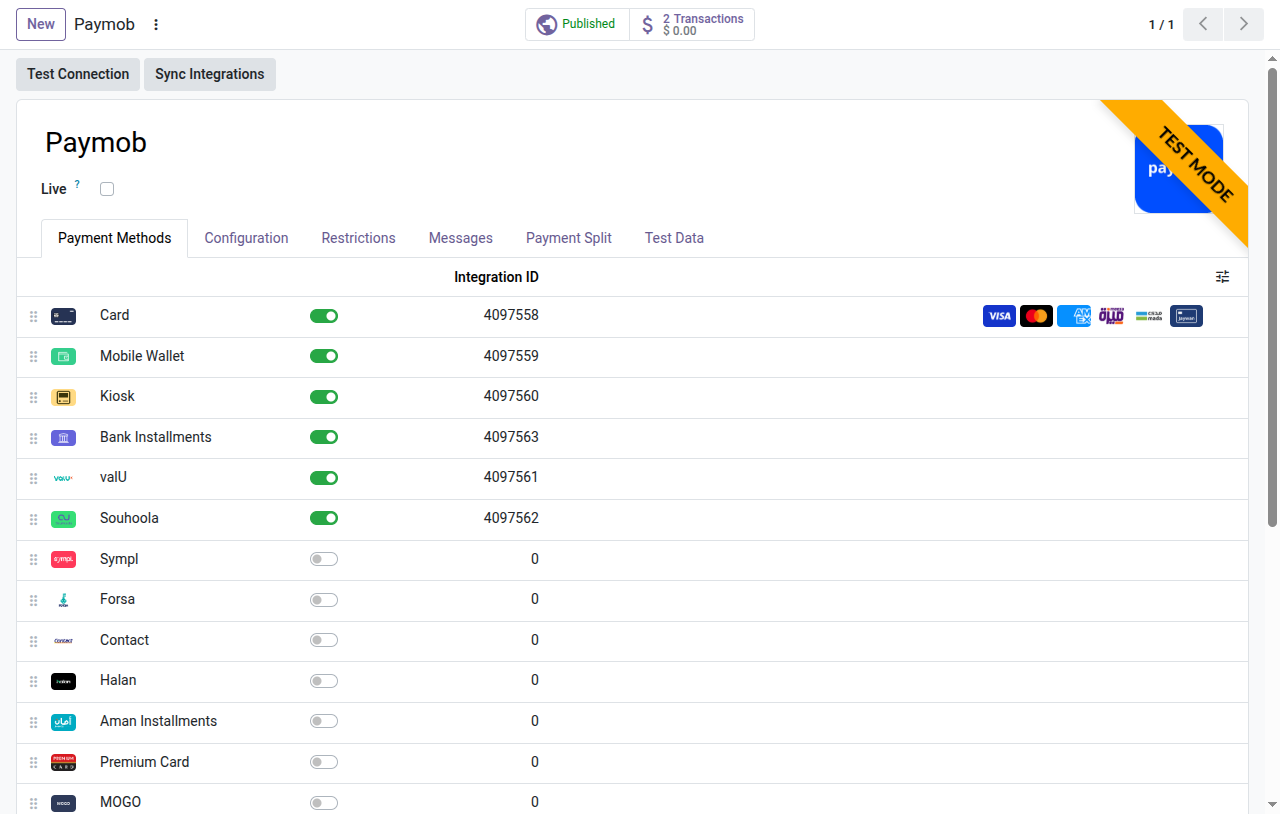
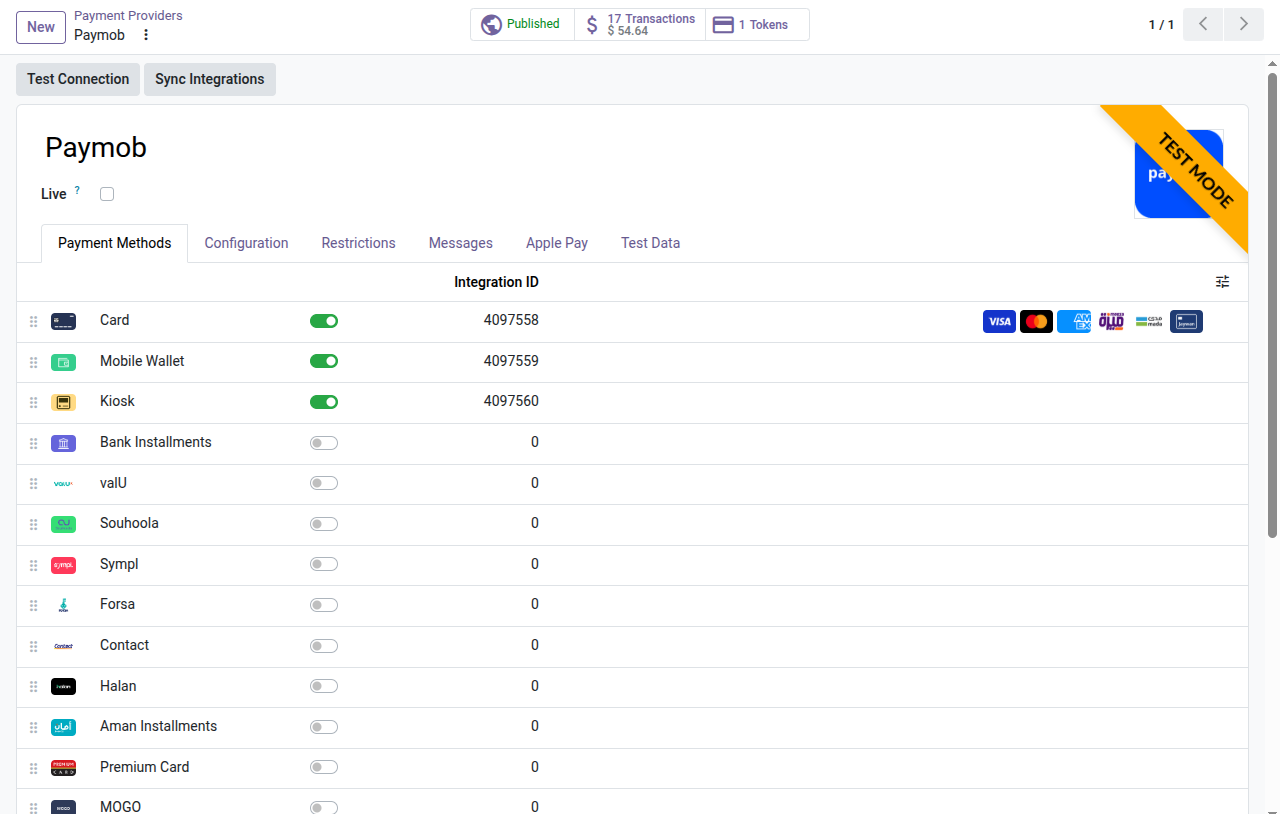
[IMP] payment_paymob_cf: store page with every feature and screen
- Store page: new screens (Paymob Checkout in a pop-up, the embedded card
  form, a saved card at checkout, My Payment Methods, the Apple Pay tab, a
  transaction's Paymob tab) and the Payment Methods and Test Data tabs
  retaken; three more feature cards (Apple Pay, checked on Paymob's
  platform, easy to test); the pop-up that follows the payment, saved cards
  fetched from Paymob, testing on a local computer, Apple Pay settings and
  questions; version 20.0.1.1.0 and what's new.
- Banner with Apple Pay; manifest summary and description with Apple Pay.
- Test Data tab and admin guide: what a test kiosk payment does.
- Guides show the new screens; Arabic updated.

diff --git a/payment_paymob_cf/static/description/index.html b/payment_paymob_cf/static/description/index.html
@@ -17,6 +17,8 @@
                 <span class="border rounded" style="display: inline-block; font-size: 14px; padding: 6px 14px; margin: 4px; color: #1F2937;">English &amp; Arabic</span>
                 <span class="border rounded" style="display: inline-block; font-size: 14px; padding: 6px 14px; margin: 4px; color: #1F2937;">No PCI-DSS scope</span>
                 <span class="border rounded" style="display: inline-block; font-size: 14px; padding: 6px 14px; margin: 4px; color: #1F2937;">Saved cards, capture &amp; split</span>
+                <span class="border rounded" style="display: inline-block; font-size: 14px; padding: 6px 14px; margin: 4px; color: #1F2937;">Apple Pay</span>
+                <span class="border rounded" style="display: inline-block; font-size: 14px; padding: 6px 14px; margin: 4px; color: #1F2937;">Checked on Paymob's platform</span>
             </p>
         </div>
     </div>
@@ -138,7 +140,8 @@
                 <h4 style="font-size: 18px; font-weight: 700; color: #1F2937; margin-bottom: 8px;">Pay without leaving your site</h4>
                 <p style="font-size: 15px; color: #374151; margin-bottom: 0;">
                     Paymob Checkout opens in a pop-up, a side panel or a full page. With the embedded integration, the
-                    card form opens right on your payment page.
+                    card form opens right on your payment page. The pop-up follows the payment and takes the customer to
+                    the confirmation page as soon as it is paid.
                 </p>
             </div>
         </div>
@@ -196,6 +199,33 @@
                 </p>
             </div>
         </div>
+        <div class="col-md-6 col-lg-4" style="margin-bottom: 24px;">
+            <div class="border rounded h-100" style="padding: 22px; border-color: #004EFF !important; border-width: 2px !important;">
+                <h4 style="font-size: 18px; font-weight: 700; color: #1F2937; margin-bottom: 8px;">Apple Pay in a few clicks</h4>
+                <p style="font-size: 15px; color: #374151; margin-bottom: 0;">
+                    Apple Pay for customers on iPhone, iPad and Mac, hidden for the others. The Apple Pay tab guides you
+                    step by step, and Activate Apple Pay finds your Apple Pay integration and turns it on.
+                </p>
+            </div>
+        </div>
+        <div class="col-md-6 col-lg-4" style="margin-bottom: 24px;">
+            <div class="border rounded h-100" style="padding: 22px; border-color: #0B1F4D !important; border-width: 2px !important;">
+                <h4 style="font-size: 18px; font-weight: 700; color: #1F2937; margin-bottom: 8px;">Checked on Paymob's platform</h4>
+                <p style="font-size: 15px; color: #374151; margin-bottom: 0;">
+                    Card payments with 3-D Secure, mobile wallets, kiosk references, saved cards, refunds and status checks
+                    were checked with a Paymob test account, in a full page, in a pop-up and in the embedded form.
+                </p>
+            </div>
+        </div>
+        <div class="col-md-6 col-lg-4" style="margin-bottom: 24px;">
+            <div class="border rounded h-100" style="padding: 22px; border-color: #FFD228 !important; border-width: 2px !important;">
+                <h4 style="font-size: 18px; font-weight: 700; color: #1F2937; margin-bottom: 8px;">Easy to test</h4>
+                <p style="font-size: 15px; color: #374151; margin-bottom: 0;">
+                    A Test Data tab with Paymob's test cards and wallet, a Test Connection button, and status checks
+                    that work even on a computer Paymob's notifications can't reach.
+                </p>
+            </div>
+        </div>
     </div>
     <div class="row">
         <div class="col-lg-10 offset-lg-1" style="padding-bottom: 24px;">
@@ -210,6 +240,7 @@
                     <li>the embedded card form, pop-up and side-panel displays;</li>
                     <li>saved cards, merchant-initiated charges (MOTO), authorize and capture, void, full and partial refunds;</li>
                     <li>refund, capture and void notifications, kiosk references, status checks, payment split, response codes explained;</li>
+                    <li>Apple Pay with a guided set-up, a pop-up that follows the payment, saved cards fetched from Paymob;</li>
                     <li>its own bank journal, test data for administrators, and Arabic.</li>
                 </ul>
                 <p style="font-size: 15px; color: #374151; margin-top: 8px; margin-bottom: 0;">
@@ -325,6 +356,11 @@
                 <li style="margin-bottom: 4px;">The customer confirms the payment with their bank (3-D Secure).</li>
                 <li style="margin-bottom: 4px;">Back on your website, the order is confirmed: "Your payment has been processed."</li>
             </ol>
+            <p style="font-size: 15px; color: #374151;">
+                The pop-up and the side panel follow the payment: once it is paid, the customer goes to the confirmation
+                page, even if their browser blocks Paymob's return or they close the window. A payment that still waits
+                for the customer, such as a wallet PIN or a kiosk reference, keeps the window open until they close it.
+            </p>
             <h4 style="font-size: 20px; font-weight: 700; color: #1F2937; margin-top: 20px;">Paying in cash at a kiosk</h4>
             <ol style="font-size: 15px; color: #374151; padding-left: 20px;">
                 <li style="margin-bottom: 4px;">The customer chooses <b>Kiosk</b>; Paymob Checkout gives a reference number.</li>
@@ -337,6 +373,16 @@
                 their phone. With valU, Souhoola, Tabby, Tamara or bank installments, the customer chooses the plan on Paymob
                 Checkout; the order is paid in Odoo as usual.
             </p>
+        </div>
+    </div>
+    <div class="row">
+        <div class="col-lg-6 text-center" style="margin-bottom: 32px;">
+            <img src="screenshot_popup_checkout.png" alt="Paymob Checkout in a pop-up over the payment page" class="img-fluid border rounded shadow-sm"/>
+            <p style="font-size: 14px; color: #5B6472; margin-top: 10px;">Paymob Checkout in a pop-up, over your payment page.</p>
+        </div>
+        <div class="col-lg-6 text-center" style="margin-bottom: 32px;">
+            <img src="screenshot_embedded_form.png" alt="Paymob's card form embedded in the payment page, saving the card" class="img-fluid border rounded shadow-sm"/>
+            <p style="font-size: 14px; color: #5B6472; margin-top: 10px;">The embedded card form; the card is saved for the next payments.</p>
         </div>
     </div>
     <div class="row">
@@ -368,7 +414,18 @@
                 <li style="margin-bottom: 6px;"><b>Charges while the customer is away</b> (for example subscriptions): Odoo charges the saved card through your MOTO integration.</li>
                 <li style="margin-bottom: 6px;"><b>Remove a card:</b> the customer clicks the bin in <b>My Payment Methods</b>. Paymob offers no API to delete saved cards: the card is removed from Odoo and can't be used any more. Expired cards are removed by themselves.</li>
             </ul>
+            <p style="font-size: 15px; color: #374151;">Paymob sends the saved card to Odoo in its own notification; when the payment is confirmed, Odoo also asks Paymob for the card, so it is saved even if that notification is late or can't reach your website.</p>
             <p style="font-size: 15px; color: #374151;">To turn it on: choose <b>Embedded checkout</b> on the provider and tick <b>Allow Saving Payment Methods</b>. Paymob Checkout can't save cards for Odoo.</p>
+        </div>
+    </div>
+    <div class="row">
+        <div class="col-lg-6 text-center" style="margin-bottom: 24px;">
+            <img src="screenshot_saved_card.png" alt="A saved card offered at checkout, with its expiry date" class="img-fluid border rounded shadow-sm"/>
+            <p style="font-size: 14px; color: #5B6472; margin-top: 10px;">At checkout, the saved card comes first; other methods stay one click away.</p>
+        </div>
+        <div class="col-lg-6 text-center" style="margin-bottom: 24px;">
+            <img src="screenshot_my_payment_methods.png" alt="The saved card in the customer's My Payment Methods page" class="img-fluid border rounded shadow-sm"/>
+            <p style="font-size: 14px; color: #5B6472; margin-top: 10px;">My Account › Payment Methods: the customer's saved cards, with a bin to remove them.</p>
         </div>
     </div>
 </section>
@@ -414,6 +471,12 @@
                 you what is still missing: the country, the live mode, the Apple Pay integration of your Paymob
                 account or the domain file.
             </p>
+        </div>
+    </div>
+    <div class="row">
+        <div class="col-lg-10 offset-lg-1 text-center" style="margin-bottom: 24px;">
+            <img src="screenshot_apple_pay.png" alt="The Apple Pay tab of the Paymob provider, with the set-up steps" class="img-fluid border rounded shadow-sm"/>
+            <p style="font-size: 14px; color: #5B6472; margin-top: 10px;">The Apple Pay tab: every step, the domain file and the Activate Apple Pay button.</p>
         </div>
     </div>
 </section>
@@ -529,6 +592,12 @@
                 test orders. The <b>Test Data</b> tab of the provider lists Paymob's published test cards and test wallet,
                 with links to Paymob's webhook tester and HMAC checker.
             </p>
+            <p style="font-size: 15px; color: #374151;">
+                You can test on a computer the internet can't reach: Paymob's notifications won't arrive, but Odoo asks
+                Paymob for the status when the customer comes back, while the customer waits and every 15 minutes, and
+                fetches the cards customers saved. In test mode, a kiosk payment gives a reference number that stays
+                pending, as Paymob has no kiosk simulator.
+            </p>
         </div>
     </div>
     <div class="row">
@@ -575,6 +644,8 @@
                         <tr><td><b>Integration ID</b> (on each payment method)</td><td>The Paymob integration of the method, filled by <b>Sync Integrations</b>.</td></tr>
                         <tr><td><b>Test Connection</b>, <b>Sync Integrations</b></td><td>Check the API key; fill the integration IDs from your Paymob account.</td></tr>
                         <tr><td><b>Test Data</b> tab</td><td>Test mode only: Paymob's published test cards and wallet, and its testing tools.</td></tr>
+                        <tr><td><b>Apple Pay Domain File</b> (Apple Pay tab)</td><td>Embedded only: Apple's domain file, served at <code>/.well-known/apple-developer-merchantid-domain-association</code>.</td></tr>
+                        <tr><td><b>Activate Apple Pay</b> (Apple Pay tab)</td><td>Checks what Apple Pay needs and turns the Apple Pay method on.</td></tr>
                         <tr><td><b>Payment Journal</b></td><td>Where paid orders are posted. Paymob by default.</td></tr>
                     </tbody>
                 </table>
@@ -601,7 +672,11 @@
         </div>
     </div>
     <div class="row">
-        <div class="col-lg-10 offset-lg-1 text-center" style="margin-bottom: 24px;">
+        <div class="col-lg-6 text-center" style="margin-bottom: 24px;">
+            <img src="screenshot_transaction.png" alt="A pending kiosk payment, with the Check Paymob Status button and its Paymob tab" class="img-fluid border rounded shadow-sm"/>
+            <p style="font-size: 14px; color: #5B6472; margin-top: 10px;">A kiosk payment waiting to be paid: its Paymob details and <b>Check Paymob Status</b>.</p>
+        </div>
+        <div class="col-lg-6 text-center" style="margin-bottom: 24px;">
             <img src="screenshot_error_code.png" alt="A declined Paymob payment, with the code explained in the transaction" class="img-fluid border rounded shadow-sm"/>
             <p style="font-size: 14px; color: #5B6472; margin-top: 10px;">A declined payment: the code, what it means, and Paymob's message.</p>
         </div>
@@ -677,6 +752,7 @@
             <ul style="font-size: 15px; color: #374151; padding-left: 20px;">
                 <li style="margin-bottom: 4px;">the customer's return to your website, after which Odoo asks Paymob for the status;</li>
                 <li style="margin-bottom: 4px;">Paymob's notification, checked against its HMAC signature;</li>
+                <li style="margin-bottom: 4px;">the pop-up or side panel of Paymob Checkout, which asks Odoo for the status while it is open;</li>
                 <li style="margin-bottom: 4px;">the waiting page, which asks Paymob every few seconds while the customer looks at it;</li>
                 <li style="margin-bottom: 4px;">the scheduled action, every 15 minutes, for pending payments of the last 10 days;</li>
                 <li style="margin-bottom: 4px;">the <b>Check Paymob Status</b> button.</li>
@@ -837,7 +913,13 @@
             <p style="font-size: 15px; color: #374151;">Yes, with the embedded checkout and a MOTO integration, which Paymob creates on request.</p>
 
             <h4 style="font-size: 17px; font-weight: 700; color: #1F2937; margin-top: 16px;">How do I test kiosk payments and installments?</h4>
-            <p style="font-size: 15px; color: #374151;">Paymob has no simulator for them, and bank installments, Apple Pay and Google Pay only work with live integrations: test them with small live payments, then refund them where possible.</p>
+            <p style="font-size: 15px; color: #374151;">In test mode, a kiosk payment gives a reference number that stays pending: Paymob has no kiosk simulator. Bank installments, Apple Pay and Google Pay only work with live integrations: test them with small live payments, then refund them where possible.</p>
+
+            <h4 style="font-size: 17px; font-weight: 700; color: #1F2937; margin-top: 16px;">Can I test on my computer, without a public website?</h4>
+            <p style="font-size: 15px; color: #374151;">Yes. Paymob's notifications won't reach it, but Odoo asks Paymob for the status of each payment and fetches saved cards, so orders are confirmed as usual. Live payments need your website on the internet, over HTTPS.</p>
+
+            <h4 style="font-size: 17px; font-weight: 700; color: #1F2937; margin-top: 16px;">Apple Pay doesn't show at checkout.</h4>
+            <p style="font-size: 15px; color: #374151;">It shows only in Safari on an iPhone, iPad or Mac, over HTTPS. Click <b>Activate Apple Pay</b> in the Apple Pay tab: it tells you what is missing. With the embedded checkout, your domain must be verified at Apple and Paymob must have your certificates.</p>
 
             <h4 style="font-size: 17px; font-weight: 700; color: #1F2937; margin-top: 16px;">Can I keep Odoo's own Paymob connector?</h4>
             <p style="font-size: 15px; color: #374151;">Yes. The two providers are independent; publish the one you want your customers to use.</p>
@@ -859,11 +941,11 @@
                         <tr><td style="width: 30%;"><b>Odoo</b></td><td>20.0, Community and Enterprise, on-premise and Odoo.sh</td></tr>
                         <tr><td><b>Depends on</b></td><td>Payment and Invoicing (<code>payment</code>, <code>account_payment</code>); works with eCommerce, the customer portal, invoices and payment links</td></tr>
                         <tr><td><b>Paymob</b></td><td>A Paymob account in Egypt, Saudi Arabia, the UAE, Oman or Pakistan, with the integrations of the methods you offer</td></tr>
-                        <tr><td><b>Website</b></td><td>Reachable from the internet over HTTPS</td></tr>
+                        <tr><td><b>Website</b></td><td>Reachable from the internet over HTTPS, for live payments (tests also work on a local computer)</td></tr>
                         <tr><td><b>Currencies</b></td><td>EGP, SAR, AED, OMR or PKR, following the Paymob country</td></tr>
                         <tr><td><b>Languages</b></td><td>English and Arabic, for every Arabic language installed in Odoo</td></tr>
-                        <tr><td><b>Version</b></td><td>20.0.1.0.0</td></tr>
-                        <tr><td><b>What's new</b></td><td><b>20.0.1.0.0:</b> first release.</td></tr>
+                        <tr><td><b>Version</b></td><td>20.0.1.1.0</td></tr>
+                        <tr><td><b>What's new</b></td><td><b>20.0.1.1.0:</b> Apple Pay with a guided set-up (Apple Pay tab, Activate Apple Pay, Apple's domain file served by Odoo); the pop-up and side panel follow the payment; saved cards fetched from Paymob; checked with a Paymob test account.<br/><b>20.0.1.0.0:</b> first release.</td></tr>
                     </tbody>
                 </table>
             </div>

diff --git a/payment_paymob_cf/__manifest__.py b/payment_paymob_cf/__manifest__.py
@@ -15,15 +15,16 @@
 {
     'name': "Paymob Payments",
     'summary': "Accept Paymob in Egypt, Saudi Arabia, the UAE, Oman and Pakistan: cards, wallets, "
-               "kiosk, valU and other installments, with Paymob's hosted checkout or an embedded card "
-               "form, saved cards, refunds and manual capture",
+               "kiosk, valU and other installments, Apple Pay, with Paymob's hosted checkout or an "
+               "embedded card form, saved cards, refunds and manual capture",
     'description': "Payment provider for Paymob. Choose Paymob Checkout, where customers pay on Paymob's "
                    "hosted page in a full page, a pop-up or a side panel, or the Embedded checkout, "
                    "where the card form opens on your website and saved cards, manual capture and "
                    "merchant-initiated charges use Paymob's server APIs. Includes every Paymob country, "
                    "saved cards, full and partial refunds, authorize and capture, payment split with "
-                   "connected merchants, bank installments, Paymob's response codes explained, test "
-                   "data for administrators, payment notifications and Arabic.",
+                   "connected merchants, bank installments, Apple Pay with a guided set-up, Paymob's "
+                   "response codes explained, test data for administrators, payment notifications and "
+                   "status checks, and Arabic.",
     'version': '20.0.1.1.0',
     'category': 'Accounting/Payment Providers',
     'sequence': 350,

diff --git a/payment_paymob_cf/doc/user_guide.md b/payment_paymob_cf/doc/user_guide.md
@@ -28,8 +28,15 @@ links, each with its logo. Methods are offered to customers of the countries and
    panel or a full page. The card is typed there, never on your website.
 3. The customer confirms the payment with their bank (3-D Secure), and comes back to the confirmation page.
 
+![Paymob Checkout in a pop-up](../static/description/screenshot_popup_checkout.png)
+
+In a pop-up or a side panel, the page follows the payment: once it is paid, the customer goes to the
+confirmation page even if they close the window.
+
 Signed-in customers can tick **Save my payment details** (embedded checkout) and pick the saved card next time; they
 confirm it with its security code and their bank. They remove cards from **My Account › Payment Methods**.
+
+![A saved card at checkout](../static/description/screenshot_saved_card.png)
 
 ### Apple Pay
 
@@ -67,6 +74,8 @@ The transaction's **Paymob** tab shows Paymob's order ID and reference, the inte
 with, the kiosk reference, the installment plan and the last status check. When Paymob refused the payment, it
 shows the code, what it means and what to check, with Paymob's message. Paymob's transaction ID is the
 transaction's **Provider Reference**.
+
+![A kiosk payment waiting to be paid, with Check Paymob Status](../static/description/screenshot_transaction.png)
 
 ![A declined payment explained](../static/description/screenshot_error_code.png)
 

diff --git a/payment_paymob_cf/doc/admin_guide.md b/payment_paymob_cf/doc/admin_guide.md
@@ -98,7 +98,8 @@ Odoo user. The provider's **Test Data** tab (test mode only) lists Paymob's publ
 | Mastercard | 5123 4567 8901 2346 or 5123 4500 0000 0008, expiry 01/39, CVV 123, name Test Account |
 | Visa | 4111 1111 1111 1111, expiry 01/39, CVV 123, name Test Account |
 | Mobile wallet | Number 01010101010 (type 1010101010 after +20), MPIN 123456, OTP 123456 |
-| Kiosk, installments | Paymob has no simulator: test them with small live payments |
+| Kiosk | A reference number that stays pending: Paymob has no kiosk simulator |
+| Installments | Live integrations only: test them with a small live payment |
 
 You can test on a computer that the internet can't reach: Paymob's notifications won't arrive, but Odoo asks Paymob
 for the status when the customer comes back, while the customer waits, and every 15 minutes, and fetches the cards
@@ -125,6 +126,8 @@ it. Paymob offers Apple Pay in Egypt, Saudi Arabia, the United Arab Emirates and
 integrations only**: it can't be tested in test mode. Apple Pay payments can be refunded fully or partially.
 
 The provider's **Apple Pay** tab repeats these steps, with the file upload and the **Activate Apple Pay** button.
+
+![The Apple Pay tab](../static/description/screenshot_apple_pay.png)
 
 ### With Paymob Checkout
 
